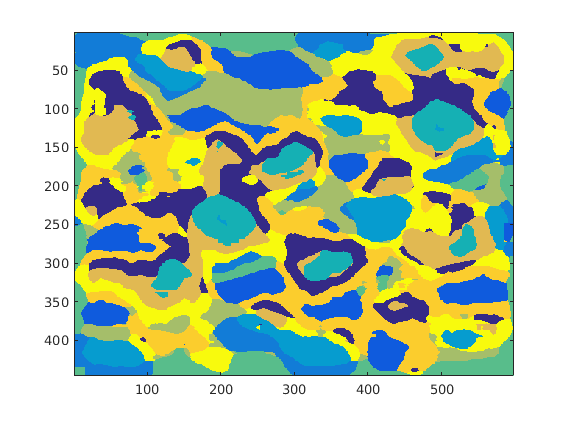
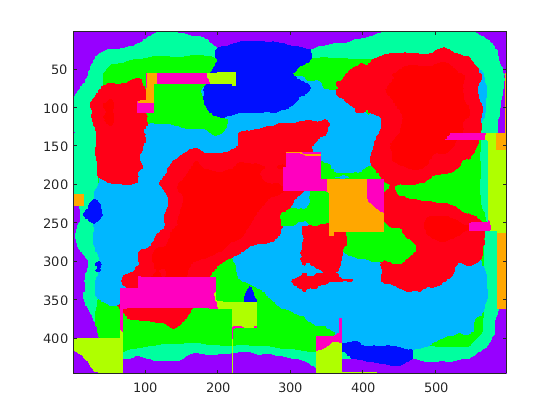
progress

diff --git a/segmentMain.m b/segmentMain.m
@@ -11,8 +11,8 @@ K = im2double(imread('images/snake.jpg'));
 L = im2double(imread('images/car.jpg'));
 
 % Parameters to be tuned.
-k = 14;
-winSize = 55;
+k = 12; % determines the number of bins for histogram
+winSize = 105;
 numColorRegions = 4;
 numTextureRegions = 10;
 
@@ -35,6 +35,7 @@ stacksize = size(S, 3);
 imsize = ceil(sqrt(stacksize));
 
 figure;
+colormap cool;
 for i = 1:stacksize
   subplot(imsize, imsize, i);
   imagesc(S(:, :, i));
@@ -61,6 +62,7 @@ fprintf('textons subset dimensions: (%s)\n', num2str(size(T2)))
 [colorLabelIm, textureLabelIm] = compareSegmentations(I, F, T, winSize, ...
   numColorRegions, numTextureRegions);
 figure;
+colormap hsv;
 imagesc(colorLabelIm); print('images/gumballs_color.png', '-dpng', '-r0');
 imagesc(textureLabelIm); print('images/gumballs_texture.png', '-dpng', '-r0');
 disp('Gumballs figure saved.')
@@ -69,6 +71,7 @@ close
 [colorLabelIm, textureLabelIm] = compareSegmentations(J, F, T, winSize, ...
   numColorRegions, numTextureRegions);
 figure;
+colormap hsv;
 imagesc(colorLabelIm); print('images/twins_color.png', '-dpng', '-r0');
 imagesc(textureLabelIm); print('images/twins_texture.png', '-dpng', '-r0');
 disp('Twins figure saved.')
@@ -77,6 +80,7 @@ close
 [colorLabelIm, textureLabelIm] = compareSegmentations(K, F, T, winSize, ...
   numColorRegions, numTextureRegions);
 figure;
+colormap hsv;
 imagesc(colorLabelIm); print('images/snake_color.png', '-dpng', '-r0');
 imagesc(textureLabelIm); print('images/snake_texture.png', '-dpng', '-r0');
 disp('Snake figure saved.')
@@ -85,6 +89,7 @@ close
 [colorLabelIm, textureLabelIm] = compareSegmentations(L, F, T, winSize, ...
   numColorRegions, numTextureRegions);
 figure;
+colormap hsv;
 imagesc(colorLabelIm); print('images/car_color.png', '-dpng', '-r0');
 imagesc(textureLabelIm); print('images/car_texture.png', '-dpng', '-r0');
 disp('Car figure saved.')
@@ -98,6 +103,7 @@ win2 = 65; % larger window size
 [~, textureLargeWin] = compareSegmentations(I, F, T, win2, ...
   numColorRegions, numTextureRegions);
 figure;
+colormap hsv;
 imagesc(textureSmallWin); print('images/gumballs_small.png', '-dpng', '-r0');
 imagesc(textureLargeWin); print('images/gumballs_large.png', '-dpng', '-r0');
 disp('done.')
@@ -109,6 +115,8 @@ figure;
   numColorRegions, numTextureRegions);
 [~, textureSubset] = compareSegmentations(I, F2, T2, winSize, ...
   numColorRegions, numTextureRegions);
+figure;
+colormap hsv;
 imagesc(textureFullset); print('images/gumballs_fullset.png', '-dpng', '-r0');
 imagesc(textureSubset); print('images/gumballs_subset.png', '-dpng', '-r0');
 close
